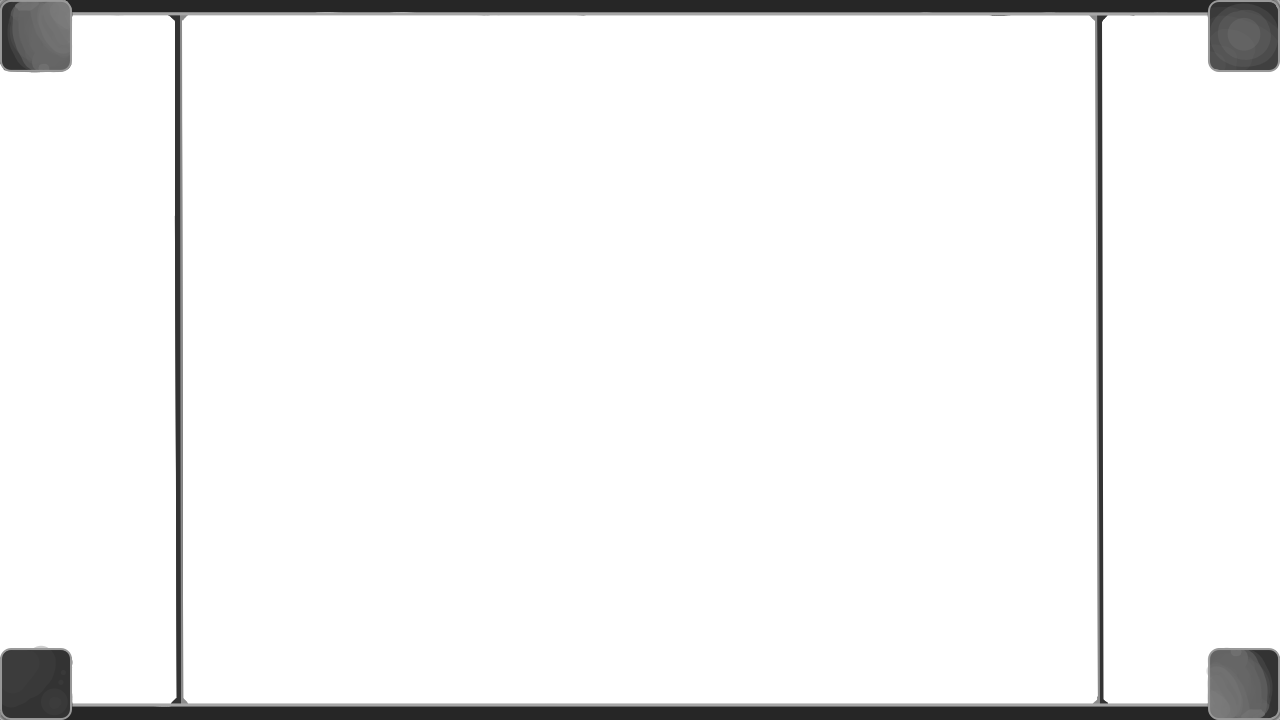
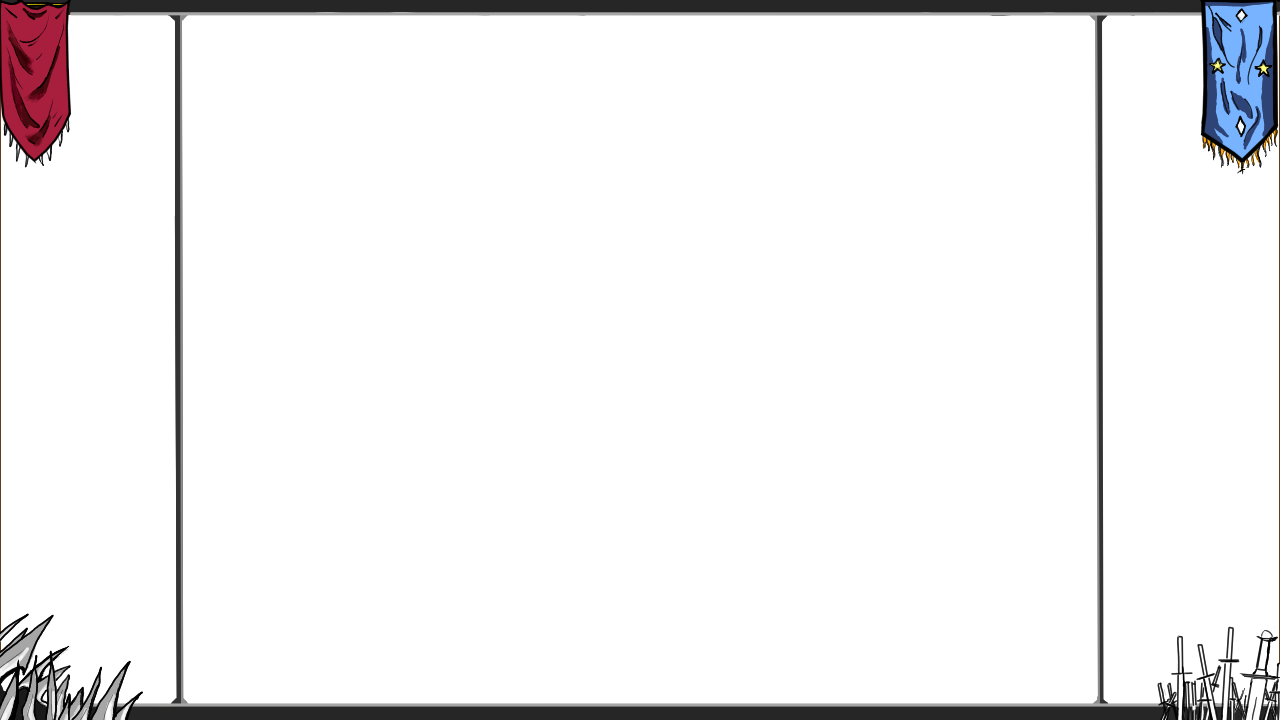
Updated UI frame

diff --git a/src/scenes/UIScene.js b/src/scenes/UIScene.js
@@ -416,8 +416,23 @@ export default class UIScene extends Phaser.Scene {
       .setDepth(DEPTH.UI_OVERLAY)
 
 
-    const startY = 80;
-    const spacingY = 90;
+    // Party list is pinned directly to two fixed screen points instead of
+    // being derived from the right panel's button math — simpler, and the
+    // right panel's item count can change without affecting this at all.
+    // PARTY_LIST_TOP_Y is the top of the topmost member's name text;
+    // PARTY_LIST_BOTTOM_Y is the bottom of a FULL (max-size) party's last
+    // member's XP bar. spacingY is fixed (computed once for a full party),
+    // NOT redivided across however many members currently exist — members
+    // just stack sequentially downward from the top at that fixed gap, so a
+    // 2-person party sits snugly near the top instead of being stretched to
+    // span the whole 185-600 range with a big gap in between.
+    const PARTY_LIST_TOP_Y = 185;
+    const PARTY_LIST_BOTTOM_Y = 600;
+    const MEMBER_CONTENT_BOTTOM_OFFSET = 44; // xpBar's own y-offset (40) + its height (4)
+    const MAX_PARTY_SIZE = 6;
+
+    const startY = PARTY_LIST_TOP_Y;
+    const spacingY = (PARTY_LIST_BOTTOM_Y - MEMBER_CONTENT_BOTTOM_OFFSET - PARTY_LIST_TOP_Y) / (MAX_PARTY_SIZE - 1);
     const leftPanelX = 0;
 
     // 📦 Create a container for party UI elements
@@ -456,22 +471,26 @@ export default class UIScene extends Phaser.Scene {
 
       const panelCenterX = leftPanelWidth / 2;
 
-      // HP / MP / XP bars
-      const hpBar = new StatusBar(this, panelCenterX, panelY + 18, barWidth, 8, char.currentHP, char.maxHP, 0xff4444, 'HP');
+      // HP / MP / XP bars — was 16/26/36, but the name text's own height was
+      // clipping into the top of the HP bar at 16; +4 to all three keeps
+      // their 10px rhythm but adds clearance under the name.
+      const hpBar = new StatusBar(this, panelCenterX, panelY + 20, barWidth, 8, char.currentHP, char.maxHP, 0xff4444, 'HP');
       const mpBar = new StatusBar(this, panelCenterX, panelY + 30, barWidth, 8, char.currentMP, char.maxMP, 0x4444ff, 'MP');
       const xpBar = new StatusBar(
-        this, panelCenterX, panelY + 42, barWidth, 4,
+        this, panelCenterX, panelY + 40, barWidth, 4,
         char.experience, getXPNeededForLevel(char.level), 0xffff66, 0x222222
       );
 
       this._partyStatusBars.push({ char, hpBar, mpBar });
 
-      // Favor
-      const favorText = this.add.text(centerX, panelY + 50, `Favor: ${char.favor}`, {
-        fontSize: '11px',
+      // Favor — was its own row below the XP bar; now a short "★N" tucked
+      // just past the XP bar's right edge on the SAME row, instead of taking
+      // a whole extra line.
+      const favorText = this.add.text(barX + barWidth + 4, panelY + 40, `★${char.favor}`, {
+        fontSize: '9px',
         color: '#88ccff',
         fontFamily: 'Georgia'
-      }).setOrigin(0.5, 0);
+      }).setOrigin(0, 0.5);
 
       // Thin separator line after each member except the last
       const items = [nameText, hpBar, mpBar, xpBar, favorText];
